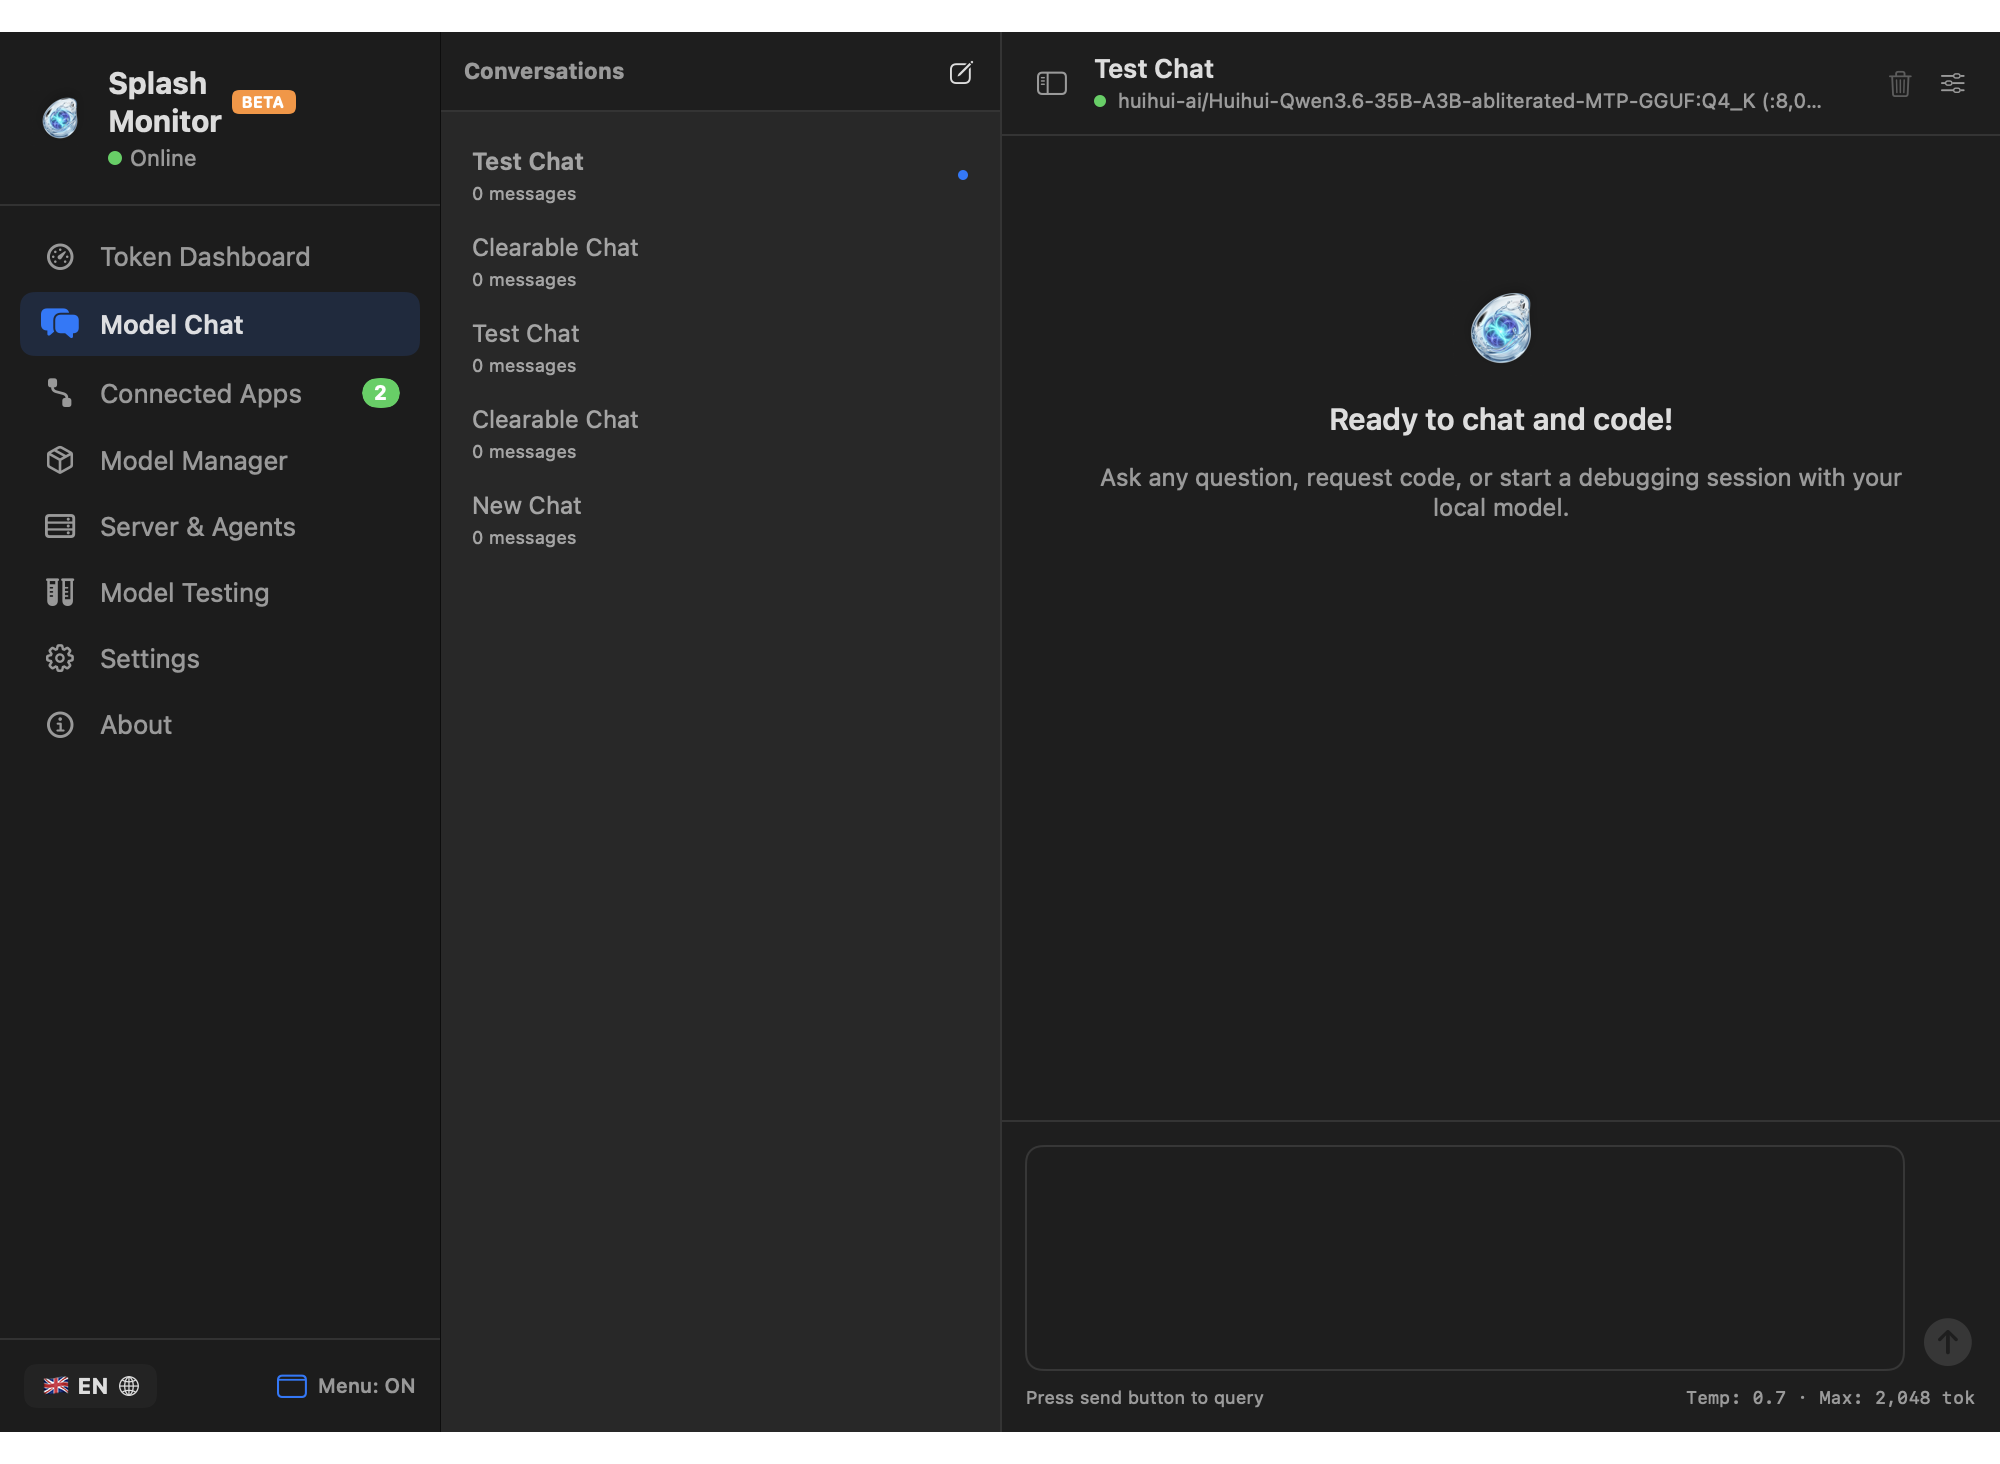
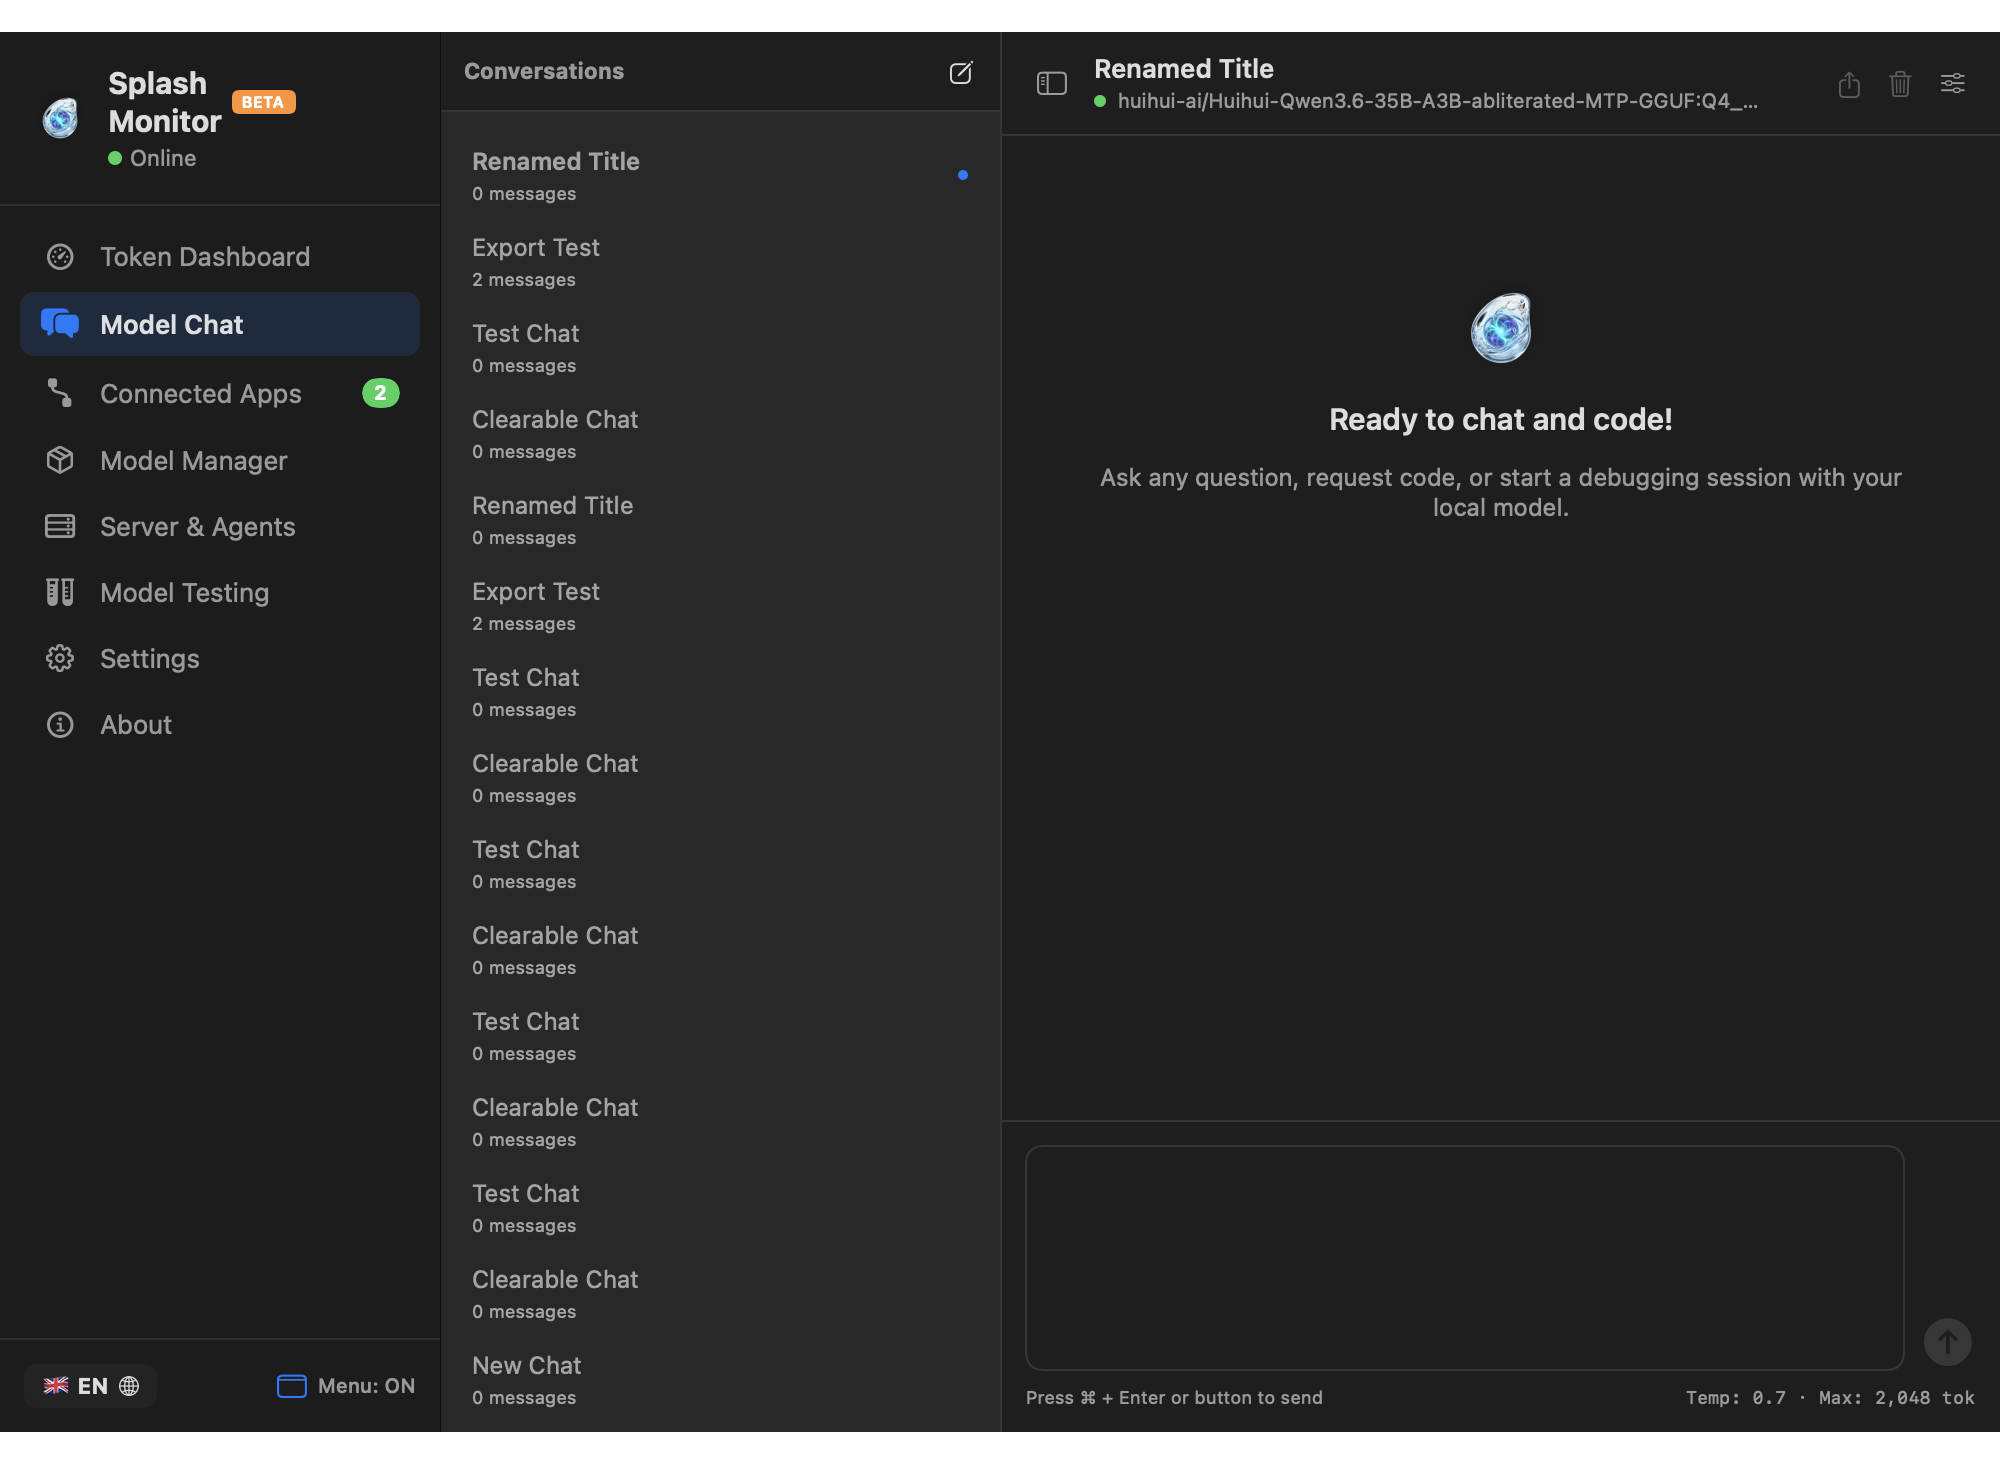
feat(chat): add keyboard shortcuts, markdown export, session rename, and bump to v1.2.0-beta

diff --git a/Sources/SplashMonitor/Views/ChatView.swift b/Sources/SplashMonitor/Views/ChatView.swift
@@ -10,6 +10,9 @@ public struct ChatView: View {
     @State private var inputText: String = ""
     @State private var showingSettingsSheet: Bool = false
     @State private var showingSessionList: Bool = true
+    @State private var editingSessionId: UUID?
+    @State private var editingTitleText: String = ""
+    @State private var exportSuccessToast: Bool = false
     
     public init(service: SplashService) {
         self.service = service
@@ -118,6 +121,18 @@ public struct ChatView: View {
             
             Spacer()
             
+            // Botón Exportar a Markdown
+            Button {
+                exportConversation()
+            } label: {
+                Image(systemName: "square.and.arrow.up")
+                    .font(.system(size: 12))
+                    .foregroundColor(exportSuccessToast ? .green : .secondary)
+            }
+            .buttonStyle(.plain)
+            .help(loc.isSpanish ? "Exportar conversación a Markdown (.md)" : "Export conversation to Markdown (.md)")
+            .disabled(chatService.currentSession?.messages.isEmpty ?? true)
+            
             // Botón Limpiar Conversación
             Button {
                 chatService.clearCurrentSession()
@@ -172,9 +187,18 @@ public struct ChatView: View {
                 ForEach(chatService.sessions) { session in
                     HStack {
                         VStack(alignment: .leading, spacing: 3) {
-                            Text(session.title)
-                                .font(.system(size: 12, weight: session.id == chatService.currentSessionId ? .semibold : .regular))
-                                .lineLimit(1)
+                            if editingSessionId == session.id {
+                                TextField("", text: $editingTitleText, onCommit: {
+                                    chatService.renameSession(id: session.id, newTitle: editingTitleText)
+                                    editingSessionId = nil
+                                })
+                                .textFieldStyle(.roundedBorder)
+                                .font(.system(size: 11))
+                            } else {
+                                Text(session.title)
+                                    .font(.system(size: 12, weight: session.id == chatService.currentSessionId ? .semibold : .regular))
+                                    .lineLimit(1)
+                            }
                             Text("\(session.messages.count) \(loc.isSpanish ? "mensajes" : "messages")")
                                 .font(.system(size: 9))
                                 .foregroundColor(.secondary)
@@ -188,10 +212,21 @@ public struct ChatView: View {
                     }
                     .padding(.vertical, 3)
                     .contentShape(Rectangle())
-                    .onTapGesture {
-                        chatService.selectSession(id: session.id)
+                    .onTapGesture(count: 2) {
+                        editingSessionId = session.id
+                        editingTitleText = session.title
+                    }
+                    .onTapGesture(count: 1) {
+                        if editingSessionId == nil {
+                            chatService.selectSession(id: session.id)
+                        }
                     }
                     .contextMenu {
+                        Button(loc.isSpanish ? "Renombrar" : "Rename") {
+                            editingSessionId = session.id
+                            editingTitleText = session.title
+                        }
+                        Divider()
                         Button(loc.isSpanish ? "Eliminar" : "Delete", role: .destructive) {
                             chatService.deleteSession(id: session.id)
                         }
@@ -238,6 +273,36 @@ public struct ChatView: View {
     
     // MARK: - Barra de Entrada
     
+    private func handleSendMessage() {
+        guard !inputText.trimmingCharacters(in: .whitespacesAndNewlines).isEmpty, service.isRunning, !chatService.isGenerating else { return }
+        let text = inputText
+        inputText = ""
+        chatService.sendMessage(
+            text,
+            port: service.activePort,
+            model: service.activeModel.isEmpty ? service.selectedModelForLaunch : service.activeModel
+        )
+    }
+    
+    private func exportConversation() {
+        let md = chatService.exportCurrentSessionToMarkdown()
+        let savePanel = NSSavePanel()
+        savePanel.allowedContentTypes = [.plainText]
+        savePanel.nameFieldStringValue = "\(chatService.currentSession?.title ?? "conversation").md"
+        savePanel.canCreateDirectories = true
+        savePanel.isExtensionHidden = false
+        
+        savePanel.begin { result in
+            if result == .OK, let url = savePanel.url {
+                try? md.write(to: url, atomically: true, encoding: .utf8)
+                exportSuccessToast = true
+                DispatchQueue.main.asyncAfter(deadline: .now() + 2) {
+                    exportSuccessToast = false
+                }
+            }
+        }
+    }
+    
     private var inputControlsBar: some View {
         VStack(spacing: 8) {
             HStack(alignment: .bottom, spacing: 8) {
@@ -264,26 +329,21 @@ public struct ChatView: View {
                     .help(loc.isSpanish ? "Detener generación" : "Stop generation")
                 } else {
                     Button {
-                        let text = inputText
-                        inputText = ""
-                        chatService.sendMessage(
-                            text,
-                            port: service.activePort,
-                            model: service.activeModel.isEmpty ? service.selectedModelForLaunch : service.activeModel
-                        )
+                        handleSendMessage()
                     } label: {
                         Image(systemName: "arrow.up.circle.fill")
                             .font(.system(size: 24))
                             .foregroundColor(inputText.trimmingCharacters(in: .whitespacesAndNewlines).isEmpty || !service.isRunning ? .secondary.opacity(0.4) : .accentColor)
                     }
                     .buttonStyle(.plain)
+                    .keyboardShortcut(.return, modifiers: [.command])
                     .disabled(inputText.trimmingCharacters(in: .whitespacesAndNewlines).isEmpty || !service.isRunning)
-                    .help(loc.isSpanish ? "Enviar mensaje" : "Send message")
+                    .help(loc.isSpanish ? "Enviar mensaje (⌘↵)" : "Send message (⌘↵)")
                 }
             }
             
             HStack {
-                Text(loc.isSpanish ? "Pulsa botón Enviar para consultar" : "Press send button to query")
+                Text(loc.isSpanish ? "Pulsa ⌘ + Enter o el botón para enviar" : "Press ⌘ + Enter or button to send")
                     .font(.system(size: 9))
                     .foregroundColor(.secondary)
                 Spacer()

diff --git a/Sources/SplashMonitor/Services/ChatService.swift b/Sources/SplashMonitor/Services/ChatService.swift
@@ -69,6 +69,49 @@ public final class ChatService: ObservableObject {
         saveSessionsToDisk()
     }
     
+    public func renameSession(id: UUID, newTitle: String) {
+        let trimmed = newTitle.trimmingCharacters(in: .whitespacesAndNewlines)
+        guard !trimmed.isEmpty, let index = sessions.firstIndex(where: { $0.id == id }) else { return }
+        sessions[index].title = trimmed
+        sessions[index].updatedAt = Date()
+        saveSessionsToDisk()
+    }
+    
+    public func exportCurrentSessionToMarkdown() -> String {
+        guard let session = currentSession else { return "" }
+        let formatter = DateFormatter()
+        formatter.dateStyle = .medium
+        formatter.timeStyle = .short
+        
+        var md = "# \(session.title)\n\n"
+        md += "- **Model**: `\(session.modelId)`\n"
+        md += "- **Created**: \(formatter.string(from: session.createdAt))\n"
+        md += "- **Messages**: \(session.messages.count)\n\n---\n\n"
+        
+        for msg in session.messages {
+            let roleTitle = msg.role == .user ? "👤 User" : (msg.role == .assistant ? "🤖 Assistant (\(session.modelId))" : "⚙ System")
+            md += "### \(roleTitle)\n\n"
+            
+            if let think = msg.thinkingContent, !think.isEmpty {
+                md += "<details>\n<summary>Thinking Process / Razonamiento</summary>\n\n"
+                md += "\(think)\n\n"
+                md += "</details>\n\n"
+            }
+            
+            md += "\(msg.content)\n\n"
+            
+            if let tokPerSec = msg.tokensPerSecond, tokPerSec > 0 {
+                md += "*Telemetry: \(String(format: "%.1f", tokPerSec)) tok/s"
+                if let ttft = msg.ttftMs {
+                    md += " · TTFT: \(String(format: "%.0f", ttft))ms"
+                }
+                md += "*\n\n"
+            }
+            md += "---\n\n"
+        }
+        return md
+    }
+    
     // MARK: - Streaming SSE (/v1/chat/completions)
     
     public func sendMessage(

diff --git a/Tests/SplashMonitorTests/ChatServiceTests.swift b/Tests/SplashMonitorTests/ChatServiceTests.swift
@@ -45,5 +45,47 @@ final class ChatServiceTests: XCTestCase {
         service.deleteSession(id: sessionId)
         XCTAssertFalse(service.sessions.contains(where: { $0.id == sessionId }))
     }
+    
+    func testRenameSession() {
+        let service = ChatService.shared
+        service.createNewSession(modelId: "test-model", title: "Original Title")
+        guard let sessionId = service.currentSessionId else {
+            XCTFail("No session id")
+            return
+        }
+        
+        service.renameSession(id: sessionId, newTitle: "Renamed Title")
+        XCTAssertEqual(service.currentSession?.title, "Renamed Title")
+    }
+    
+    func testExportToMarkdown() {
+        let service = ChatService.shared
+        service.createNewSession(modelId: "qwen-35b", title: "Export Test")
+        guard let sessionId = service.currentSessionId else {
+            XCTFail("No session id")
+            return
+        }
+        
+        if let idx = service.sessions.firstIndex(where: { $0.id == sessionId }) {
+            service.sessions[idx].messages.append(ChatMessage(role: .user, content: "Hazme un hello world"))
+            service.sessions[idx].messages.append(ChatMessage(
+                role: .assistant,
+                content: "```python\nprint('Hello World')\n```",
+                thinkingContent: "Pensando cómo responder amablemente...",
+                tokensGenerated: 25,
+                tokensPerSecond: 95.4,
+                ttftMs: 120.0,
+                isComplete: true
+            ))
+        }
+        
+        let md = service.exportCurrentSessionToMarkdown()
+        XCTAssertTrue(md.contains("# Export Test"))
+        XCTAssertTrue(md.contains("qwen-35b"))
+        XCTAssertTrue(md.contains("Hazme un hello world"))
+        XCTAssertTrue(md.contains("Hello World"))
+        XCTAssertTrue(md.contains("Pensando cómo responder"))
+        XCTAssertTrue(md.contains("95.4 tok/s"))
+    }
 }
 

diff --git a/Sources/SplashMonitor/Services/Version.swift b/Sources/SplashMonitor/Services/Version.swift
@@ -9,13 +9,13 @@ import Foundation
 /// duplicada en 5 lugares (servicio, Info.plist, DMG, instalador y README) y ya había
 /// divergido: el README anunciaba 1.0.0-beta mientras el binario compilaba 1.0.2-beta.
 public enum SplashVersion {
-    public static let current = "1.1.0-beta"
+    public static let current = "1.2.0-beta"
     /// Identificador de paquete propio (P-11). Antes el proyecto se anunciaba como
     /// `com.incoai.splashmonitor`, reclamando el espacio de nombres de IncoAI, del que
     /// este monitor es software independiente.
     public static let bundleIdentifier = "do.jmgrep.splashmonitor"
     /// Número de compilación para `CFBundleVersion` (debe crecer con cada publicación).
-    public static let buildNumber = "12"
+    public static let buildNumber = "13"
 }
 
 // MARK: - Comparación semántica de versiones (P-07 / H-08)

diff --git a/CHANGELOG.md b/CHANGELOG.md
@@ -5,6 +5,31 @@ Todos los cambios notables de este proyecto serán documentados en este archivo.
 El formato se basa en [Keep a Changelog](https://keepachangelog.com/es-ES/1.1.0/)
 y este proyecto se adhiere a [Semantic Versioning](https://semver.org/lang/es/).
 
+## [1.2.0-beta] - 2026-11-02
+
+Versión mayor destacada que transforma **Splash Monitor** en un **Estudio de Desarrollo y Chat Nativo Multi-Turn Completo** para macOS. Introduce soporte oficial para **Splash 1.5.0**, telemetría en tiempo real de razonamiento (`<think>`) y decodificación especulativa **DFlash2**, atajos de teclado profesionales y exportación de sesiones a Markdown.
+
+### 🚀 Novedades y Características
+
+- **💬 Módulo de Chat Nativo & Multi-Turn Playground:**
+  - Cliente streaming nativo SSE (`URLSession.bytes`) conectado directamente a `/v1/chat/completions`.
+  - Soporte de razonamiento profundo (`<think>`) con acordeón colapsable para modelos estilo DeepSeek R1 y Claude Opus.
+  - Bloques de código con detección sintáctica y botón de copia con 1 clic al portapapeles.
+  - Telemetría de inferencia por mensaje: cálculo exacto de tokens por segundo (`tok/s`), tiempo al primer token (`TTFT` en ms) y total de tokens generados.
+  - Gestión integral de conversaciones con persistencia en disco JSON (`~/Library/Application Support/SplashMonitor/chats/`).
+  - Atajo rápido `⌘ + Enter` para enviar mensajes y soporte de saltos de línea con `Shift + Enter`.
+  - Renombrado rápido de conversaciones con doble clic o menú contextual.
+  - **Exportación de chats a Markdown (.md)** con metadatos del modelo, razonamiento y telemetría de rendimiento.
+  - Panel deslizante de parámetros en caliente: Temperatura (0.0 a 1.5), Tokens máximos de salida (hasta 8k) y System Prompt personalizable.
+- **⚡ Compatibilidad Total con Splash 1.5.0 & Telemetría DFlash2:**
+  - Compatibilidad completa con la versión 1.5.0 de Splash.
+  - Visualización y diagnóstico de eficiencia de decodificación especulativa DFlash2 (detección de modelos con baja aceptación de draft tokens).
+  - Recomendaciones optimizadas para modelos fine-tuneados compatibles con arquitecturas MoE y MTP (`Qwen3.6-35B-A3B`).
+- **🛡 Suite Completa de 125 Pruebas Unitarias Automatizadas (100% passing):**
+  - Incorporadas 5 pruebas unitarias exhaustivas para `ChatService` (creación, vaciado, borrado, renombrado y exportación a Markdown).
+
+---
+
 ## [1.1.0-beta] - 2026-10-27
 
 Versión menor destacada con **internacionalización bilingüe al 100% (Español / Inglés)**, monitor interactivo del **ciclo de vida de inferencia en tiempo real (PREFILL ➔ DECODE ➔ IDLE)** en el Dashboard, modalidad **multimodal por defecto (Visión + Texto)** con conmutación inteligente a `--language-only` para modelos de código, y notificaciones nativas de macOS. Resuelve los issues de la comunidad **#5** y **#6**.
